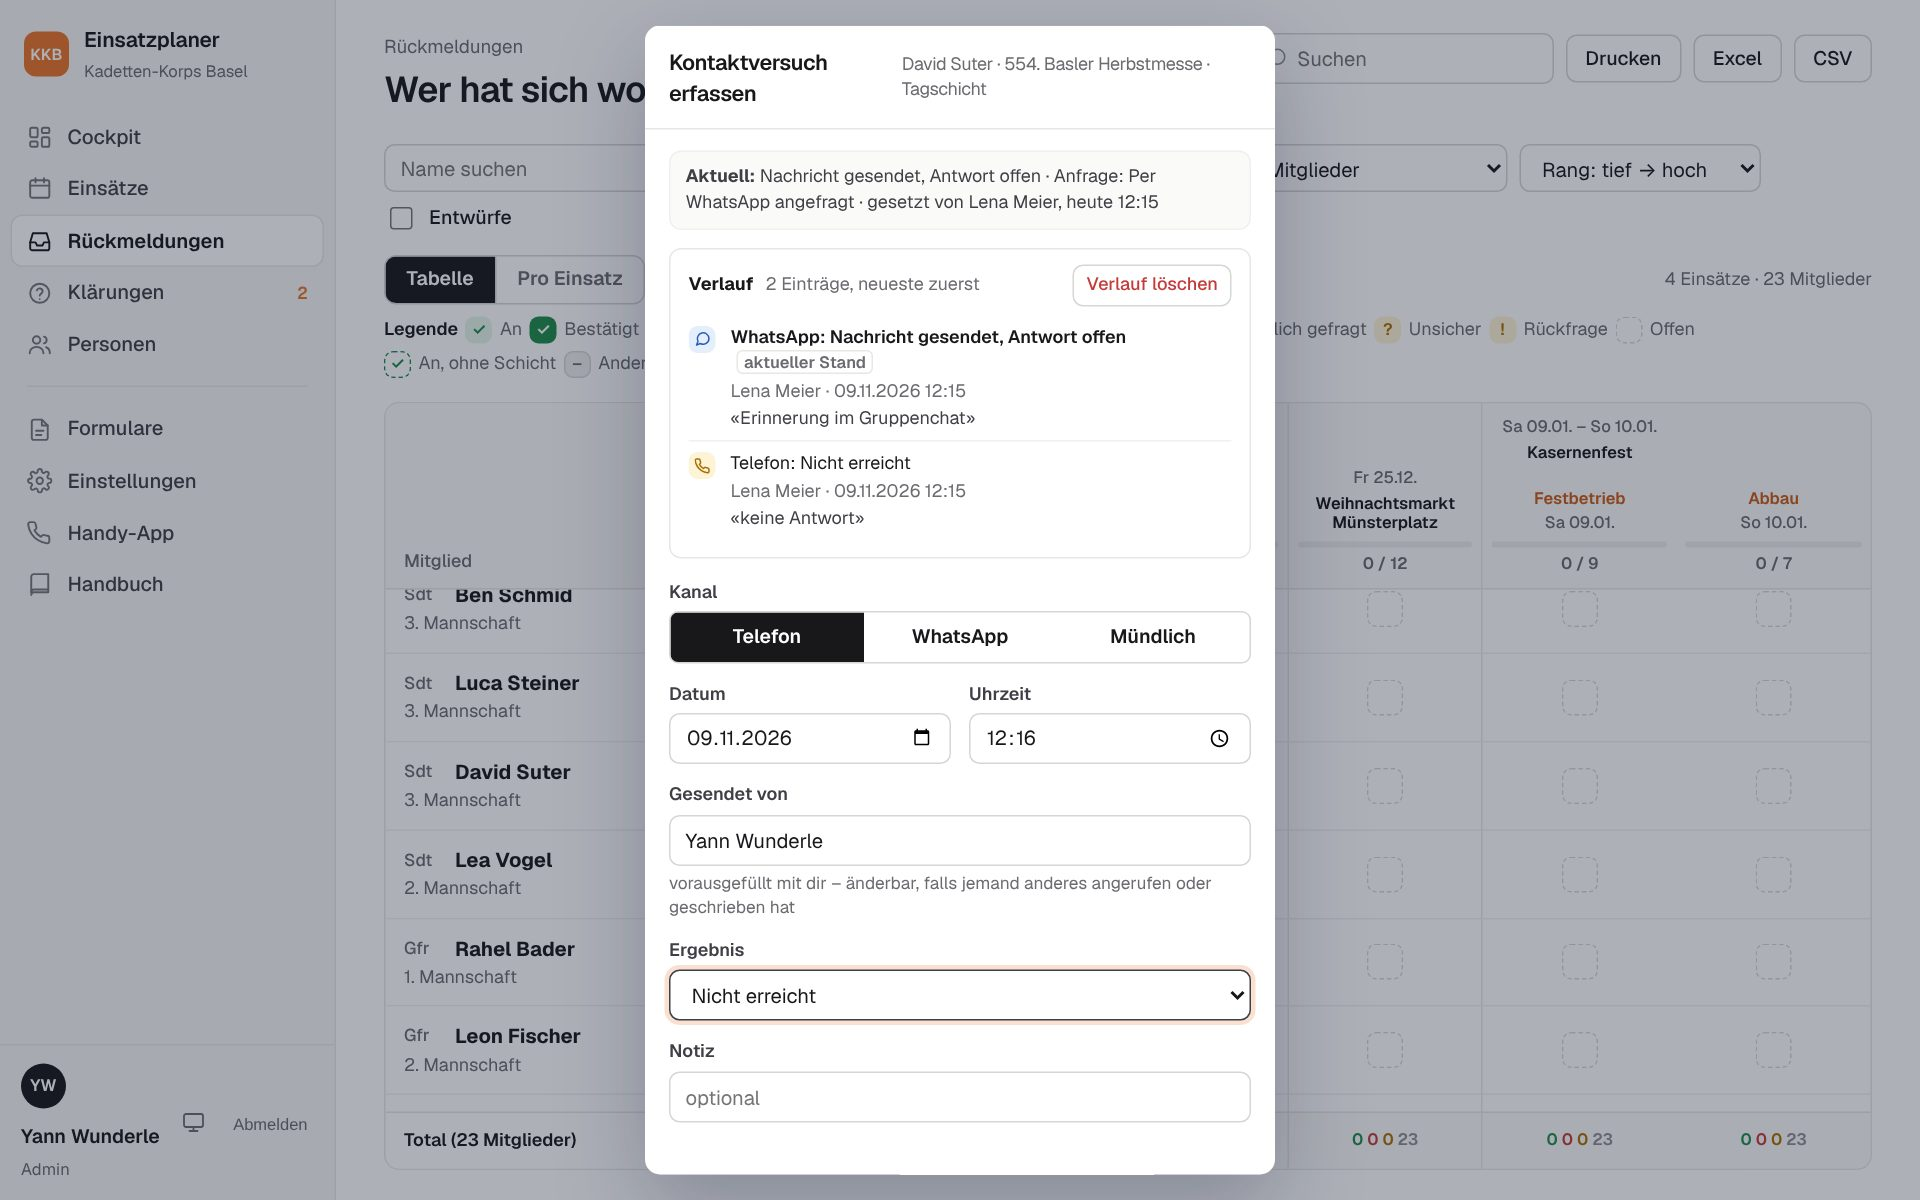
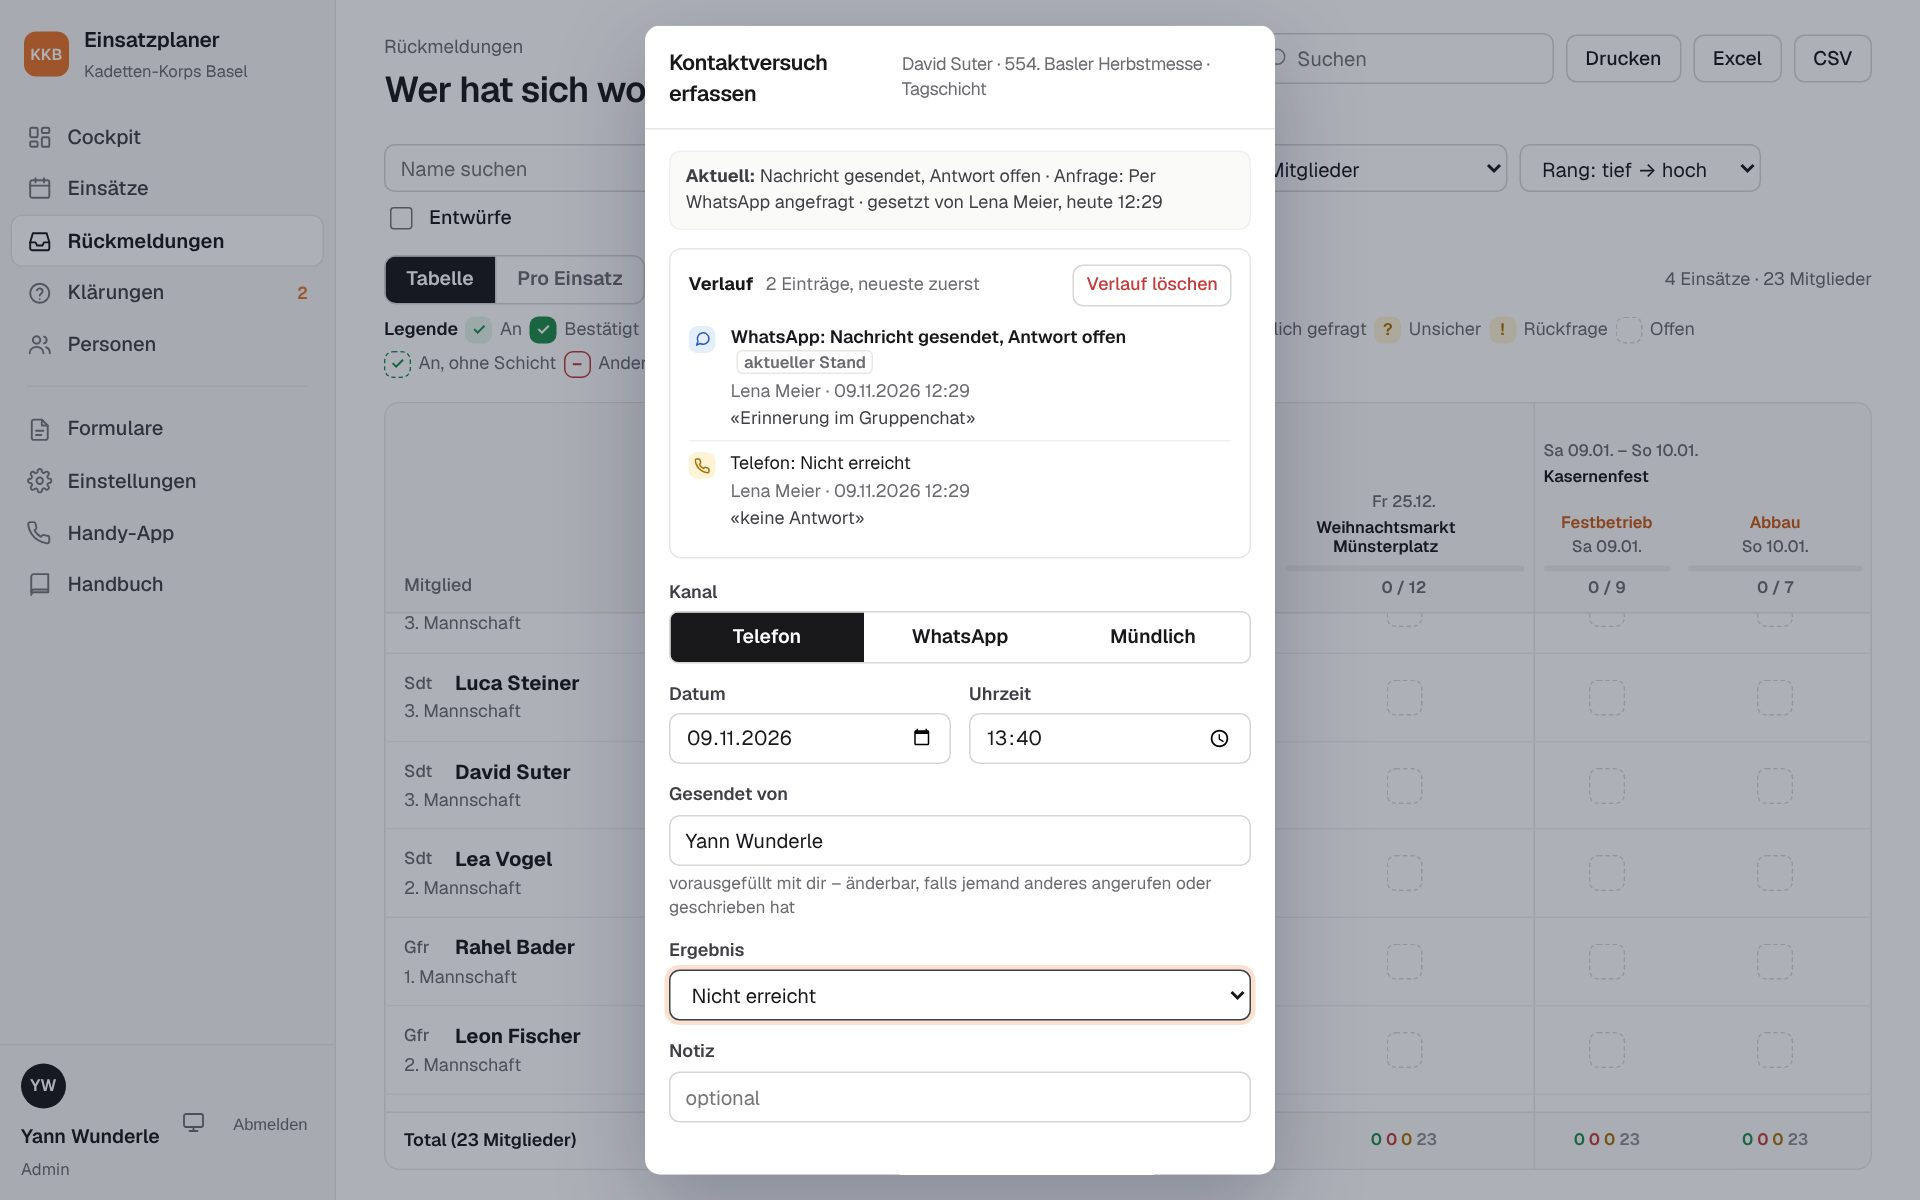
Rückmeldungen: Minus «andere Schicht, gleiche Zeit» rot, Handbuch-Bilder 14/15/44 neu
Claude-Session: https://claude.ai/code/session_01EBemd3HoigeV8VfdKMorkm

diff --git a/public/css/ruhig.css b/public/css/ruhig.css
@@ -445,7 +445,7 @@ details.collapse > summary .hint { margin-left: 6px; font-size: 12px; font-weigh
 @media (max-width: 760px) { .empty-state { padding: 20px; column-gap: 14px; } }
 
 /* Rückmeldungen: andere Schicht – gleiche Zeit (geht nicht) oder zeitlich möglich */
-.fb-andere.fb-d-ueberschneidung { background: var(--border-soft); color: var(--muted); border-color: var(--border-strong); font-weight: 600; }
+.fb-andere.fb-d-ueberschneidung { background: var(--card); color: var(--red); border-color: var(--red); font-weight: 700; }
 .fb-andere.fb-d-frei { background: var(--card); border: 1px solid var(--border-soft); }
 .fb-ring { display: block; width: 8px; height: 8px; border-radius: 50%; border: 2px solid var(--green); }
 .legend .fb-ring { width: 6px; height: 6px; border-width: 1.5px; }

diff --git a/docs/handbuch/handbuch.md b/docs/handbuch/handbuch.md
@@ -588,7 +588,7 @@ Die Seite **Rückmeldungen** beantwortet die wichtigste Frage der Aufgebotsstell
 - Unten stehen pro Einsatz die Summen An · Ab · Unsicher · Offen.
 - Nach dem Speichern, «Verlauf löschen» oder «Alles zurücksetzen» bleibt die Seite an derselben Stelle stehen. Auch die Tabelle springt nicht nach oben oder links zurück.
 - **Einsätze mit mehreren Schichten** haben eine Spalte pro Schicht, mit eigener Besetzung (z. B. «Tagschicht 8 / 10 · 1 ohne Schicht»). «ohne Schicht» heisst: zugesagt, aber noch keiner Schicht zugeteilt. ✓ heisst: für diese Schicht angemeldet oder eingeteilt. Ein gestricheltes ✓ heisst: zugesagt, aber die Schicht ist noch nicht festgelegt. Ab, Unsicher und Offen gelten für alle Schichten des Einsatzes.
-- **Andere Schicht: geht es zeitlich?** Ist eine Person in einer anderen Schicht, rechnet die App aus Datum und Zeit, ob sie diese Schicht trotzdem machen kann. **–** auf grauem Feld heisst: Die Schicht liegt zur selben Zeit wie ihre Schicht. Die Person kann also nicht. Ein **kleiner grüner Ring** heisst: Die Zeiten überschneiden sich nicht. Die Person könnte diese Schicht zusätzlich machen, z. B. an einem anderen Tag. Endet eine Schicht genau dann, wenn die andere beginnt, gilt das nicht als Überschneidung. Eine Nachtschicht über Mitternacht zählt bis zu ihrem Ende am nächsten Tag. Fehlt bei einer Schicht die Zeit, steht ein Punkt (·).
+- **Andere Schicht: geht es zeitlich?** Ist eine Person in einer anderen Schicht, rechnet die App aus Datum und Zeit, ob sie diese Schicht trotzdem machen kann. Ein **rotes –** heisst: Die Schicht liegt zur selben Zeit wie ihre Schicht. Die Person kann also nicht. Ein **kleiner grüner Ring** heisst: Die Zeiten überschneiden sich nicht. Die Person könnte diese Schicht zusätzlich machen, z. B. an einem anderen Tag. Endet eine Schicht genau dann, wenn die andere beginnt, gilt das nicht als Überschneidung. Eine Nachtschicht über Mitternacht zählt bis zu ihrem Ende am nächsten Tag. Fehlt bei einer Schicht die Zeit, steht ein Punkt (·).
 - Klickt man in einer Schicht-Spalte auf ein offenes Feld und wählt **«Zugesagt»**, ist diese Schicht schon angekreuzt. Weitere Schichten lassen sich dazu wählen, oder man lässt die Auswahl leer und teilt später unter «Schichten» zu. Das gilt genauso beim Erfassen unter Einsatz › Anfragen und auf der Seite eines Mitglieds.
 
 **Die Symbole:**
@@ -605,7 +605,7 @@ Die Seite **Rückmeldungen** beantwortet die wichtigste Frage der Aufgebotsstell
 | Mündlich gefragt (sprechende Person) | Mündlich angefragt, weiss es noch nicht |
 | Rückfrage (!) | Anmeldung mit offener Frage, z. B. nachträglich «Nein» im Formular |
 | Offen | Noch keine Rückmeldung und noch nicht angefragt |
-| Andere Schicht, gleiche Zeit (– auf grauem Feld) | In einer anderen Schicht, die zur selben Zeit liegt. Die Person kann diese Schicht nicht machen |
+| Andere Schicht, gleiche Zeit (rotes –) | In einer anderen Schicht, die zur selben Zeit liegt. Die Person kann diese Schicht nicht machen |
 | Andere Schicht, zeitlich möglich (kleiner grüner Ring) | In einer anderen Schicht, die zu einer anderen Zeit liegt. Die Person könnte diese Schicht zusätzlich machen |
 | An, ohne Schicht (gestricheltes ✓) | Zugesagt, Schicht noch nicht festgelegt |
 
